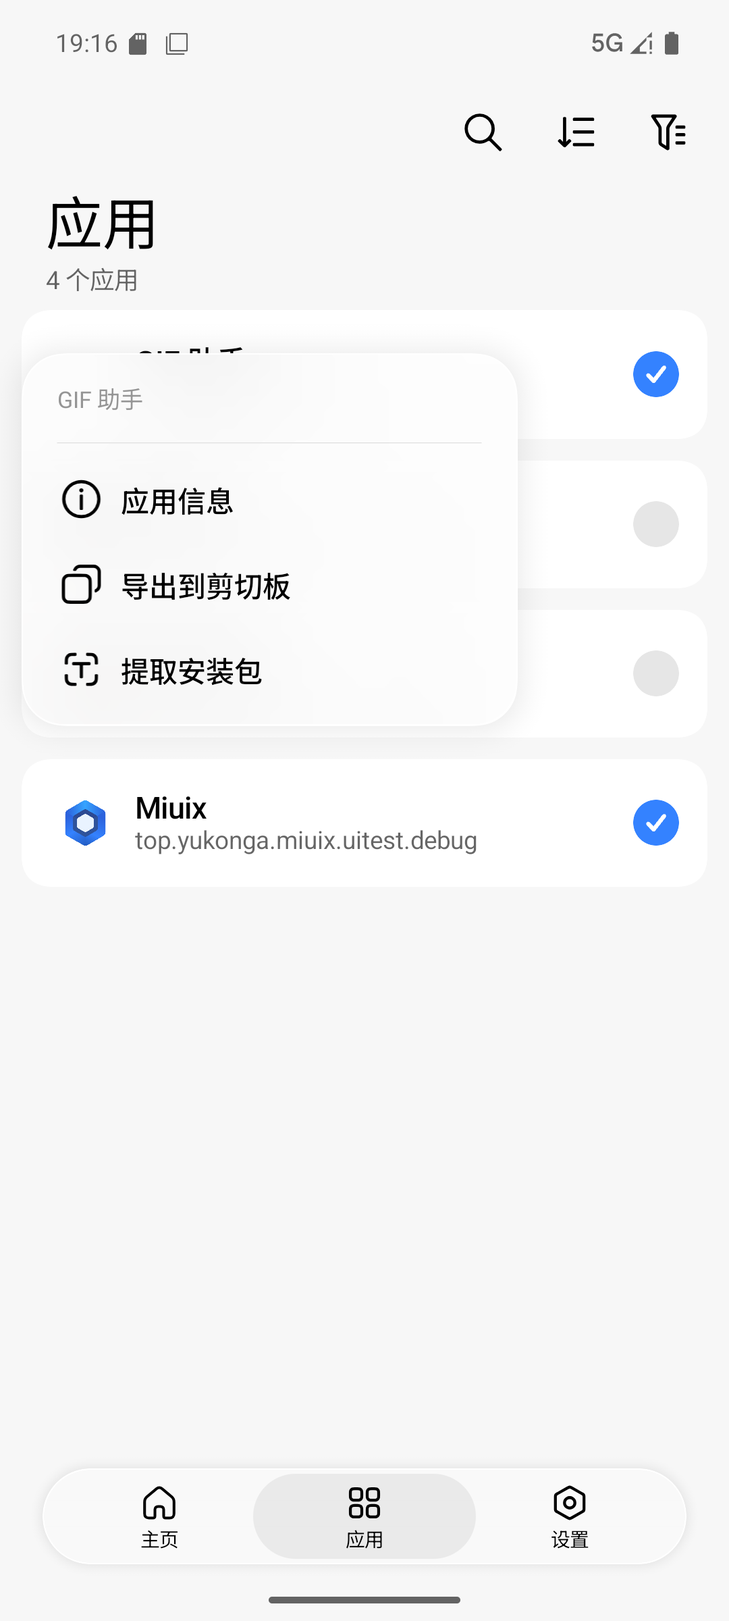
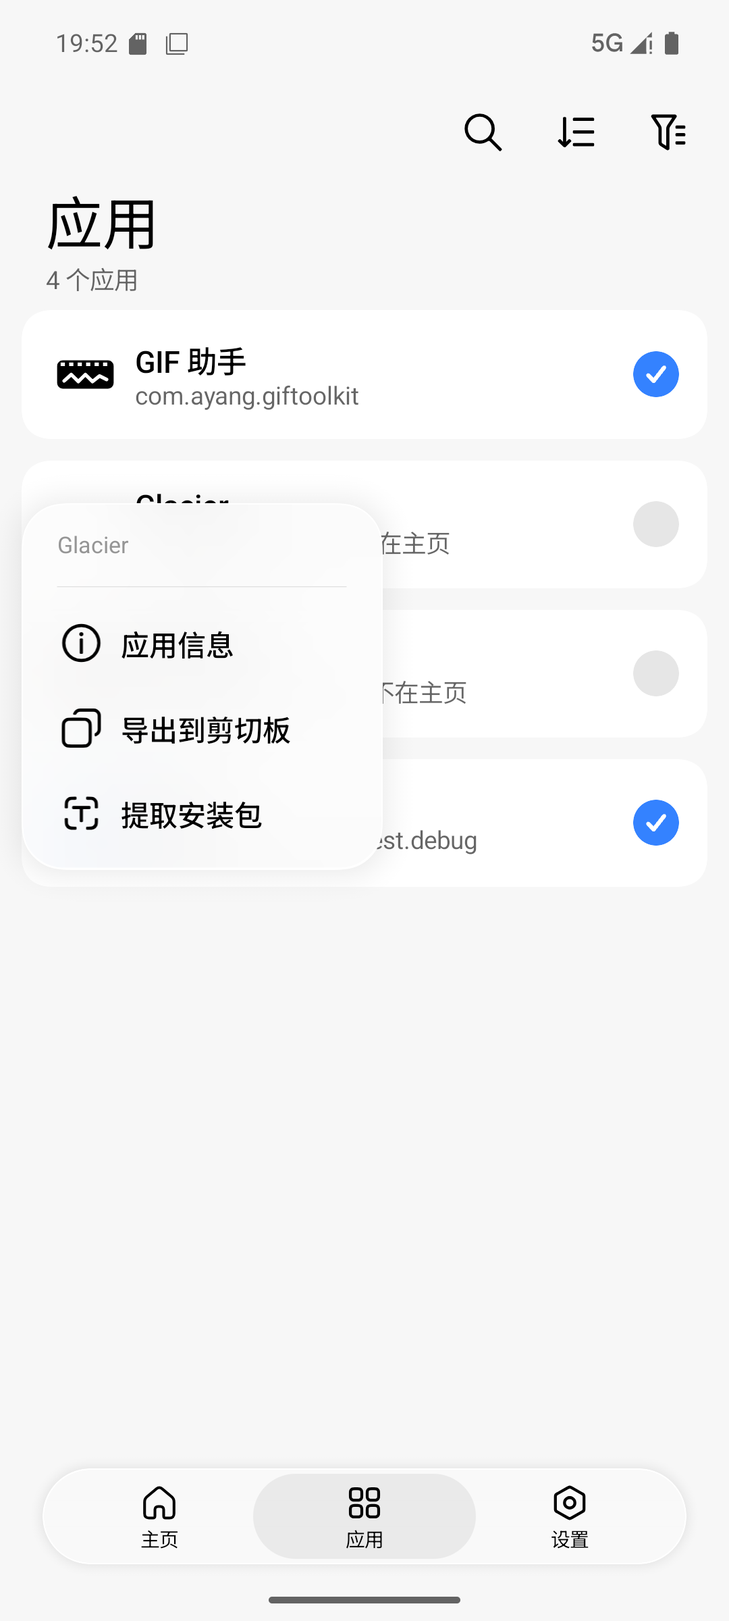
fix(ui): 锚点浮层交回官方宽度/动画并让开侧栏
面板宽度不再写死 320/280dp，交回 GlassPopupDefaults.MinWidth/MaxWidth 内容驱动；浮层改为常驻组合并用列表首项预热，修复首次长按无展开动画；TopLayerHost 按侧栏让位宽度内缩，横屏浮层不再盖住侧栏。

设置：工作模式「禁用」改「停用」，主页标签字号与合成自适应图标对调。

diff --git a/app/src/main/kotlin/com/ayang/glacier/feature/home/HomeScreen.kt b/app/src/main/kotlin/com/ayang/glacier/feature/home/HomeScreen.kt
@@ -27,7 +27,6 @@ import androidx.compose.foundation.layout.height
 import androidx.compose.foundation.layout.only
 import androidx.compose.foundation.layout.padding
 import androidx.compose.foundation.layout.size
-import androidx.compose.foundation.layout.width
 import androidx.compose.foundation.lazy.LazyColumn
 import androidx.compose.foundation.lazy.rememberLazyListState
 import androidx.compose.foundation.lazy.grid.GridCells
@@ -286,6 +285,11 @@ fun HomeScreen() {
 
     // 浮层退场期间继续使用最后一次内容（规范 0 节红线 1）。
     var lastActionEntry by remember { mutableStateOf<AppEntry?>(null) }
+    // 预热：浮层常驻组合（官方要求），首帧就要有完整菜单内容。否则第一次长按时会先按
+    // "空菜单"量一次面板，`GlassPopupSurface` 的固有尺寸缓存会把这次量到的极小尺寸记住，
+    // 内容随后补上也不再重量（表现为只留一条细条）。用列表第一项预热即可：浮层此时不可见，
+    // 真正被长按的条目会在同一次组合里替换进来。
+    if (lastActionEntry == null) lastActionEntry = entries.firstOrNull()
     var lastTagNameRequest by remember { mutableStateOf<TagNameRequest?>(null) }
     var lastDeleteTag by remember { mutableStateOf<Tag?>(null) }
     var lastDeferredPackage by remember { mutableStateOf<String?>(null) }
@@ -514,40 +518,42 @@ fun HomeScreen() {
                 menuTarget?.label.orEmpty()
             }
             // 锚点浮层提升到根部 TopLayer：不进页面录制层（避免自采样），也不被玻璃侧栏盖住。
-            // 首次长按前不组合浮层：`GlassPopupSurface` 的固有尺寸缓存以 content lambda 为 token，
-            // 先在"空菜单"状态下组合一次会把面板高度缓存成只有标题行，之后菜单内容补上也不再
-            // 重新量（表现为只显示标题、行被裁掉）。等有目标时第一次就带完整菜单组合即可。
-            if (menuTarget != null) {
-                TopLayer {
-                    GlassTransformPopup(
-                        show = actionTarget != null,
-                        onDismissRequest = { actionTarget = null },
-                        anchor = menuAnchor,
-                        // 采样页面录制层：浮层自己不在这一层里（TopLayer 在外），不会采到自己。
-                        backdrop = pageBackdrop,
-                        anchorContent = {
+            // 浮层必须**常驻组合**，只用 `show` 控制开合（官方文档："关闭时仍须保留组件调用，
+            // 直到离场动画完成；不要使用 `if (show)` 包裹调用"）。首次长按才组合的话，
+            // `updateTransition` 的初始值已经是 `true`，展开动画不会播——这正是"第一次长按
+            // 直接弹出、没有动画"的原因。浮层未激活时 `GlassPopupSurface` 不组合，
+            // 真正激活那一帧的内容由下面的 `lastActionEntry` 预热保证是完整菜单。
+            TopLayer {
+                GlassTransformPopup(
+                    show = actionTarget != null,
+                    onDismissRequest = { actionTarget = null },
+                    anchor = menuAnchor,
+                    // 采样页面录制层：浮层自己不在这一层里（TopLayer 在外），不会采到自己。
+                    backdrop = pageBackdrop,
+                    anchorContent = {
+                        menuTarget?.let { target ->
                             AppIconView(
-                                packageName = menuTarget.packageName,
+                                packageName = target.packageName,
                                 size = PageMetrics.GridAppIcon,
-                                frozen = menuTarget.frozen,
+                                frozen = target.frozen,
                             )
-                        },
-                        // 与官方 example 一致：普通展开不复制锚点外围内容，只做原地生长。
-                        simplified = true,
-                        gap = 8.dp,
-                    ) {
+                        }
+                    },
+                    // 与官方 example 一致：普通展开不复制锚点外围内容，只做原地生长。
+                    simplified = true,
+                    gap = 8.dp,
+                ) {
+                    menuTarget?.let { target ->
                         Text(
                             text = popupTitle,
                             style = MiuixTheme.textStyles.footnote1,
                             color = MiuixTheme.colorScheme.onSurfaceContainerVariant,
-                            // 菜单行是中文长文案（「添加到主屏幕」等），默认 200dp 会省略；
-                            // 标题行给明确宽度把面板撑宽（仍受窗口安全边距与 MaxWidth 夹紧）。
-                            modifier = Modifier
-                                .width(320.dp)
-                                .padding(
-                                    horizontal = GlassPopupDefaults.ItemPaddingHorizontal,
-                                    vertical = 8.dp,
-                                ),
+                            // 面板宽度交回官方内容驱动（GlassPopupDefaults.MinWidth/MaxWidth）；
+                            // 这里只给菜单行的同一套内边距，不再写死宽度把面板顶到 MaxWidth。
+                            modifier = Modifier.padding(
+                                horizontal = GlassPopupDefaults.ItemPaddingHorizontal,
+                                vertical = 8.dp,
+                            ),
                         )
                         HorizontalDivider(
                             modifier = Modifier.padding(
@@ -557,7 +563,7 @@ fun HomeScreen() {
                             thickness = GlassPopupDefaults.DividerThickness,
                         )
                         menuActions.forEach { action ->
-                            val row = actionSpecOf(action, menuTarget, handleMenuAction)
+                            val row = actionSpecOf(action, target, handleMenuAction)
                             GlassPopupItem(
                                 text = row.label,
                                 icon = row.icon,

diff --git a/app/src/main/kotlin/com/ayang/glacier/feature/apps/AppsScreen.kt b/app/src/main/kotlin/com/ayang/glacier/feature/apps/AppsScreen.kt
@@ -9,7 +9,6 @@ import androidx.compose.foundation.layout.fillMaxSize
 import androidx.compose.foundation.layout.fillMaxWidth
 import androidx.compose.foundation.layout.only
 import androidx.compose.foundation.layout.padding
-import androidx.compose.foundation.layout.width
 import androidx.compose.foundation.lazy.LazyColumn
 import androidx.compose.foundation.lazy.items
 import androidx.compose.foundation.lazy.rememberLazyListState
@@ -129,6 +128,10 @@ fun AppsScreen() {
     val listState = rememberLazyListState()
 
     val entries = remember(repository.snapshot, revision) { repository.apps() }
+    // 预热：浮层常驻组合，首帧即带完整菜单内容（否则首次打开会先量出"空菜单"并被
+    // `GlassPopupSurface` 的固有尺寸缓存记住，之后内容补上也不重量）。浮层此时不可见，
+    // 真正被长按的条目会在同一次组合里替换进来。
+    if (lastActionEntry == null) lastActionEntry = entries.firstOrNull()
     // 「不在主页」徽标需要的集合：与搜索结果行共用同一份摘要文案（`appRowSummary`）。
     val homePackages = remember(repository.snapshot) {
         repository.snapshot.home.mapTo(HashSet()) { it.packageName }
@@ -232,37 +235,37 @@ fun AppsScreen() {
             SideEffect {
                 if (actionEntry != null) lastActionEntry = actionEntry
             }
-            // 首次长按前不组合浮层：`GlassPopupSurface` 的固有尺寸缓存以 content lambda 为 token，
-            // 先在"仅标题"状态下组合一次会把面板高度缓存住，菜单行补上也不再重新量。
-            val menuEntry = lastActionEntry
-            if (menuEntry != null) {
-                TopLayer {
-                    GlassTransformPopup(
-                        show = actionTarget != null,
-                        onDismissRequest = { actionTarget = null },
-                        anchor = popupAnchor ?: placeholderAnchor,
-                        backdrop = pageBackdrop,
-                        anchorContent = {
+            // 浮层**常驻组合**（官方文档：退场期间仍须保留调用，不要用 `if (show)` 包裹）：
+            // 首次长按才组合的话，`updateTransition` 初始值已是 `true`，展开动画不播。
+            // 浮层未激活时 `GlassPopupSurface` 不组合，真正激活那一帧的内容由上面的预热保证。
+            TopLayer {
+                GlassTransformPopup(
+                    show = actionTarget != null,
+                    onDismissRequest = { actionTarget = null },
+                    anchor = popupAnchor ?: placeholderAnchor,
+                    backdrop = pageBackdrop,
+                    anchorContent = {
+                        lastActionEntry?.let { entry ->
                             AppIconView(
-                                packageName = menuEntry.packageName,
+                                packageName = entry.packageName,
                                 size = PageMetrics.ListAppIcon,
-                                frozen = menuEntry.frozen,
+                                frozen = entry.frozen,
                             )
-                        },
-                        simplified = true,
-                        gap = 8.dp,
-                    ) {
+                        }
+                    },
+                    simplified = true,
+                    gap = 8.dp,
+                ) {
+                    lastActionEntry?.let { entry ->
                         Text(
-                            text = menuEntry.label,
+                            text = entry.label,
                             style = MiuixTheme.textStyles.footnote1,
                             color = MiuixTheme.colorScheme.onSurfaceContainerVariant,
-                            // 中文长行（「导出到剪切板」）在默认 200dp 下会被省略；标题行明确撑到 280dp。
-                            modifier = Modifier
-                                .width(280.dp)
-                                .padding(
-                                    horizontal = GlassPopupDefaults.ItemPaddingHorizontal,
-                                    vertical = 8.dp,
-                                ),
+                            // 宽度交回官方内容驱动（MinWidth/MaxWidth），只保留菜单行内边距。
+                            modifier = Modifier.padding(
+                                horizontal = GlassPopupDefaults.ItemPaddingHorizontal,
+                                vertical = 8.dp,
+                            ),
                         )
                         HorizontalDivider(
                             modifier = Modifier.padding(
@@ -272,9 +275,9 @@ fun AppsScreen() {
                             thickness = GlassPopupDefaults.DividerThickness,
                         )
                         appsMenuActions().forEach { action ->
-                            val row = actionSpecOf(action, menuEntry) { picked ->
+                            val row = actionSpecOf(action, entry) { picked ->
                                 actionTarget = null
-                                scope.launch { runner.run(menuEntry, picked) }
+                                scope.launch { runner.run(entry, picked) }
                             }
                             GlassPopupItem(
                                 text = row.label,

diff --git a/app/src/main/kotlin/com/ayang/glacier/feature/settings/SettingsScreen.kt b/app/src/main/kotlin/com/ayang/glacier/feature/settings/SettingsScreen.kt
@@ -250,16 +250,6 @@ fun SettingsScreen(onOpenAbout: () -> Unit) {
                         title = stringResource(R.string.compact_icon),
                         summary = stringResource(R.string.compact_icon_summary),
                     )
-                    SwitchPreference(
-                        checked = synthesize,
-                        onCheckedChange = {
-                            synthesize = it
-                            preferences.synthesizeAdaptiveIcons = it
-                            preferences.bumpRevision()
-                        },
-                        title = stringResource(R.string.synthesize_adaptive_icons),
-                        summary = stringResource(R.string.synthesize_adaptive_icons_summary),
-                    )
                     SliderPreference(
                         value = labelSize,
                         onValueChange = { labelSize = it },
@@ -271,6 +261,16 @@ fun SettingsScreen(onOpenAbout: () -> Unit) {
                         valueText = stringResource(R.string.settings_font_size_value, labelSize.toInt()),
                         valueRange = 11f..18f,
                         steps = 6,
+                    )
+                    SwitchPreference(
+                        checked = synthesize,
+                        onCheckedChange = {
+                            synthesize = it
+                            preferences.synthesizeAdaptiveIcons = it
+                            preferences.bumpRevision()
+                        },
+                        title = stringResource(R.string.synthesize_adaptive_icons),
+                        summary = stringResource(R.string.synthesize_adaptive_icons_summary),
                     )
                 }
             }

diff --git a/app/src/main/kotlin/com/ayang/glacier/ui/GlacierShell.kt b/app/src/main/kotlin/com/ayang/glacier/ui/GlacierShell.kt
@@ -400,7 +400,20 @@ fun GlacierShell() {
                 }
                 // 浮层最后画：在 NavDisplay 的录制层和玻璃侧栏之外，盖住所有 chrome，
                 // 同时能安全采样页面录制层（官方 AppContent 的 TopLayerHost 同一位置）。
-                TopLayerHost(topLayer)
+                // 横屏展开侧栏时按侧栏让位宽度内缩宿主：`GlassPopupSurface` 会把面板夹在
+                // 宿主边界与安全边距内（官方契约："放在带 inset 内边距或侧栏偏移的面板中也能对齐"），
+                // 于是长按菜单自动停在侧栏右侧，不再盖住侧栏。宿主仍在侧栏之后绘制，z 序不变。
+                // 让位值在布局期读取，侧栏 morph 不会每帧触发整壳重组。
+                TopLayerHost(
+                    state = topLayer,
+                    modifier = Modifier.layout { measurable, constraints ->
+                        val inset = overlayStart().roundToPx().coerceIn(0, constraints.maxWidth)
+                        val placeable = measurable.measure(constraints.offset(horizontal = -inset))
+                        layout(placeable.width + inset, placeable.height) {
+                            placeable.place(inset, 0)
+                        }
+                    },
+                )
             }
         }
     }

diff --git a/MIUIX_BASELINE.md b/MIUIX_BASELINE.md
@@ -87,8 +87,8 @@ miuix-squircle      squircleClip / squircleBorder / squircleBackground
 | 文本输入 | `GlassTextField`（玻璃档）/ `TextField`（非玻璃档），均为 `TextFieldState` 新版 API | 旧的 `value/onValueChange` 重载已废弃 |
 | 弹层 | `GlassDialog` / `GlassBottomSheet` / `GlassDropdownPreference` / `GlassDialogButton` | `renderInRootScaffold` 保持默认 true；`GlassBottomSheet` 的内容槽是 `(PaddingValues) -> Unit`（标题栏覆盖在内容上，内容必须让出实测标题高度，R13 已全部接好） |
 | 弹层内的分组卡片 | `GlassCard` | 0.9.5 main 新增；专用于玻璃表面上的内容卡，替代原先在 `GlassBottomSheet` / `GlassDialog` 里复用的普通 `Card`；R13 起关于页信息卡也从自绘 textureBlur 换成它 |
-| 长按菜单 | `GlassTransformPopup` + `GlassPopupItem` + `GlassPopupAnchor`（`rememberGlassPopupAnchor` / `glassPopupAnchor` / `glassPopupAnchorContent`） | **R13 接回**：主页网格与应用页列表行的长按菜单都从被按的那一格/图标原地展开（官方锚点浮层），不再用底部弹层；经 `TopLayer` 提升到根部，避免被侧栏盖住 + 避免自采样 |
-| 页面级浮层宿主 | `TopLayer` / `TopLayerHost`（`ui/TopLayer.kt`，官方 `example/utils/TopLayer.kt` 逐字节移植） | 官方 example 私有能力，库不导出；浮层画在录制层与玻璃侧栏之外 |
+| 长按菜单 | `GlassTransformPopup` + `GlassPopupItem` + `GlassPopupAnchor`（`rememberGlassPopupAnchor` / `glassPopupAnchor` / `glassPopupAnchorContent`） | **R13 接回，R14 补齐官方契约**：主页网格与应用页列表行的长按菜单都从被按的那一格/图标原地展开（官方锚点浮层），不再用底部弹层；经 `TopLayer` 提升到根部，避免被侧栏盖住 + 避免自采样。R14：面板宽度交回官方内容驱动（`GlassPopupDefaults.MinWidth 200dp` / `MaxWidth 288dp`，不再写死 `width(320/280)`）；浮层改为常驻组合（官方"退场期间仍须保留调用"），首次长按也有展开动画 |
+| 页面级浮层宿主 | `TopLayer` / `TopLayerHost`（`ui/TopLayer.kt`，官方 `example/utils/TopLayer.kt` 逐字节移植） | 官方 example 私有能力，库不导出；浮层画在录制层与玻璃侧栏之外。R14：宿主按侧栏让位宽度内缩，`GlassPopupSurface` 的"夹在宿主边界内"规则因此自动让开侧栏（官方契约："放在带 inset 内边距或侧栏偏移的面板中也能对齐"） |
 | 按钮 | `GlassIconButton` / `GlassFloatingActionButton` | 顶栏动作、返回、FAB |
 | 宿主让位 | `AppPageInsets` + `LocalAppPageInsets` + `appPageHorizontalInsets()` / `appPageTopBarInsets()`（`ui/PageInsets.kt`，官方 `utils/PageUtils.kt:62-152` 的逐字节移植） | 侧栏宽度、系统安全区只作用于内容；`NavDisplay` 恒满宽，背景与模糊带不被裁断 |
 | 内容内边距 | `pageContentPadding`（官方惰性 `PaddingValues`）+ `rememberAppSafePadding()` | 组合期只建对象，`calculate*` 在布局阶段读，侧栏 morph 不触发重组 |
@@ -131,9 +131,9 @@ miuix-squircle      squircleClip / squircleBorder / squircleBackground
 | `UiFeedback.toast()` | 仍用 Android `Toast`（R11 评估后**确认保留**） | ① 调用点包含 Worker / Receiver / 快捷方式等无 Composition 的上下文，`Snackbar` 需要宿主；② 页面级浮层（`GlassSearchOverlay` / `GlassBottomSheet` / 锚点菜单）画在 Scaffold 之上，会在"搜索结果里点一行加入/移出主页"这类高频路径上把 Snackbar 盖住，反馈直接丢失；③ `Toast` 是系统反馈件而非自造 UI，HyperOS 上由系统按 OS 风格绘制 |
 | 二级页切 Tab 的转场 | 仍走 `NavTransitions.MiuixDefault`（官方 example 在二级页点导航时切到私有的 `InstantNavTransition`，`AppContent.kt:320/1155`） | 该 helper 是 example 私有实现而非库 API；当前表现为"退回一级页时播放 pop 转场"，与官方观感有差异，但语义正确。需要完全一致时再移植 |
 | 主页大标题 | 恒为应用名，多选进度写在副标题 | 之前用"换大标题 + 0.83 字号补偿 + 整条顶栏 `AnimatedContent`"表达「已选 N 个」，属自造排版层（`title1` 被临时缩成 26.5sp）；R11 删除，回到官方 `title` + `subtitle` 两行 |
-| 锚点浮层（`GlassPopup` / `GlassTransformPopup`） | **R13 已接回并实测通过**：主页网格与应用页列表行的长按菜单都从被按的那一格/图标原地展开；经 `TopLayer` 提升到根部 | R12 的 RenderThread 递归崩溃只在软件渲染（SwiftShader）下出现；本轮模拟器接入宿主 GPU（AMD Radeon，GLES 3.1 硬件 RenderEffect）后正常。上游 beta04→main 的关闭回弹修复也一并生效。详见 `docs/audit/miuix-os4-r13-audit.md` |
+| 锚点浮层（`GlassPopup` / `GlassTransformPopup`） | **R13 已接回并实测通过，R14 补齐宽度/动画/侧栏让位**：主页网格与应用页列表行的长按菜单都从被按的那一格/图标原地展开；经 `TopLayer` 提升到根部 | R12 的 RenderThread 递归崩溃只在软件渲染（SwiftShader）下出现；本轮模拟器接入宿主 GPU（AMD Radeon，GLES 3.1 硬件 RenderEffect）后正常。上游 beta04→main 的关闭回弹修复也一并生效。详见 `docs/audit/miuix-os4-r13-audit.md`、`docs/audit/miuix-os4-r14-audit.md` |
 | 弹出菜单行数上限 | 标题 + 分割线 + 6 行后，其余行在弹层内滚动 | 上游 `GlassPopupColumn` 的固有尺寸探测只采样前 8 个子项（`POPUP_PROBE_COUNT = 8`），超过 6 行时面板高度按 6 行算。主页 10 行菜单实测可滚动到「从主页移除」，文案完整；不通过改库绕过 |
-| 弹层首次组合时机 | 首次长按前不组合锚点浮层（`if (lastActionEntry != null)`） | 上游 `GlassPopupSurface` 的固有尺寸缓存以 content lambda 为 token；先在"空菜单"状态组合会缓存只有标题行的面板高度，之后补内容也不再重算。等有目标时第一次就带完整菜单组合可绕过 |
+| 弹层首次组合时机 | 浮层常驻组合，开合只由 `show` 控制；用列表第一项预热菜单内容 | 官方文档明确要求"关闭时仍须保留组件调用，直到离场动画完成；不要使用 `if (show)` 包裹调用"，否则首次长按 `updateTransition` 初始值就是 `true`，展开动画不播（R14 修复）。同时上游 `GlassPopupSurface` 的固有尺寸缓存会记住"空菜单"首帧量到的极小尺寸，所以先用列表首项预热完整菜单，等真正长按时同帧替换成被按条目 |
 | 底部导航蓝色模糊块 | 复核为非缺陷 | 设置页底栏左侧的蓝色块是「主页标签字号」滑块的蓝色轨道透过玻璃的正常采样，滚动离开即消失，切页签后不残留；1.5.0 报告里的"残影"本轮未再复现 |
 | 关于页背景效果调试面板 | 未移植（官方 AboutPage `:456-495` 的 `Background Effect` BottomSheet） | 官方 example 用来现场调 BgEffect 参数（OS2/OS3、动态背景、全屏）的调试面板，无产品意义；动态背景本体已完整对齐 |
 | Monet 动态取色 | 未接入。官方 `ColorSchemeMode.MonetSystem` 可用，Glacier 固定浅/深色板 | 品牌一致性；如需要可作为「主题」第三档，属于产品决策 |
@@ -225,3 +225,4 @@ adb install -r app/build/outputs/apk/debug/Glacier-debug.apk
 | 2026-11-25（同基线） | — | — | 长按菜单交互（R12）：多选态长按**已选中**项 → 批量菜单（标题「已选择：N」+ 冻结/解冻/标签分组/导出/移除/解冻并移除），长按未选中项仍是单应用菜单；删除 `HoldDownEffect`（按下层不再人工保持），菜单打开的那一格改用零透明度官方 `MiuixIndication` 让叠层立即退场；新增 `SelectionActionRunner`、`setTagForApps`（批量打标签）、`TagPickerSheet`（官方三态 `Checkbox`）。详见 `docs/audit/miuix-os4-r12-audit.md` |
 | 2026-11-25（同基线） | — | — | 自造轮子清查 R11 + 冻结交互重构：删掉"已选 N 个"的自造排版层（`titleFontScale` 0.83 字号补偿 + 整条顶栏 `AnimatedContent` + 逐状态 `MiuixTheme` 覆盖），多选进度改回官方副标题；主页 FAB 改为**只冻结**（不再在"全冻"时翻成解冻；FAB 与多选入口**常驻原位**，确实无可冻目标时点击提示「已全部冻结」，不做自造禁用态）；`refresh()` 由"正在刷新就丢弃"改成 Mutex 串行（修"冻结后图标/文案不刷新"）；应用图标灰度档进 LRU 并支持同步 `peek`，冻结切换不再闪空占位 |
 | 2026-11-25 | `3c560868`（**tag `v0.9.5-beta04`**） | `542463a0`（**main 最新**，beta04 + 12） | 用户要求升级到最新。官方变更集中在 Glass：`GlassTransformPopup` 关闭回弹（`preserve closing rebound on anchor button`）、`GlassBottomSheet` 渐进模糊标题栏 + `headerBottomContent` + 内容槽改 `PaddingValues`、`GlassTopAppBar` 渐进模糊顶纱与 `BandOverhang` 36→32dp、`GlassIconButton` 头部上下文统一为 `GlassHeaderContext`、`GlassCard`/`GlassDialogButton` 动态色对比度、`GlassTopAppBar` `heightOffset` 夹紧、预测性返回状态复位、底栏上沿延伸。Glacier 侧：接回锚点长按菜单（`GlassTransformPopup` + `TopLayer`）、全部 `GlassBottomSheet` 内容让出标题栏、关于页信息卡换 `GlassCard`、页面列表补 `overscrollEffect = null`、`PageMetrics.Horizontal` 改用官方 `GlassTopAppBarDefaults.HorizontalPadding`。详见 `docs/audit/miuix-os4-r13-audit.md` |
+| 2026-11-25（同基线） | — | — | 锚点浮层按官方契约收尾（R14）：① 面板宽度从写死的 `width(320/280.dp)` 交回官方内容驱动（`MinWidth 200dp` / `MaxWidth 288dp`），不再被强行顶到 MaxWidth；② 浮层改为**常驻组合**（官方"退场期间仍须保留调用"），首次长按也有展开动画；用列表首项预热菜单内容，避开上游固有尺寸缓存对"空菜单首帧"的记忆；③ 横屏展开侧栏时 `TopLayerHost` 按侧栏让位宽度内缩，`GlassPopupSurface` 的宿主边界夹紧规则自动让开侧栏；④ 设置项文案「禁用」改「停用」，并调换「主页标签字号」/「合成自适应图标」顺序。详见 `docs/audit/miuix-os4-r14-audit.md` |

diff --git a/docs/audit/miuix-os4-r14-audit.md b/docs/audit/miuix-os4-r14-audit.md
@@ -1,0 +1,81 @@
+# R14 · 锚点浮层收尾（宽度 / 首开动画 / 横屏侧栏让位）+ 设置文案与顺序
+
+> 状态：**已实施并在 GPU 模拟器验证**
+> 起因（用户 4 条）：① 工作模式「禁用」文案改「停用」，「主页标签字号」与「合成自适应图标」对调；
+> ② 长按悬浮弹窗是否过宽、是否符合 MIUIX OS4 设计；③ 有时第一次长按没有弹出动画；
+> ④ 横屏长按后弹窗遮挡侧栏，问官方有没有自动让位能力。
+
+---
+
+## 1. 结论
+
+| # | 问题 | 结论 |
+|---|---|---|
+| ① | 文案 / 顺序 | 4 条工作模式文案的「禁用」改「停用」；设置页两个选项对调 |
+| ② | 弹窗过宽 | **是过宽**。官方 `GlassPopupDefaults.MinWidth = 200.dp`、`MaxWidth = 288.dp`，**宽度由菜单内容固有尺寸驱动**；R13 为绕开高度探测把标题行写成 `width(320.dp)`（应用页 280dp），实际把面板强行顶到 MaxWidth。R14 删除写死宽度后实测面板收回到 200dp（MinWidth），文案完整、无省略 |
+| ③ | 首次长按无动画 | **R13 的绕过写法造成的**。官方文档要求浮层常驻组合、用 `show` 控制开合；R13 用 `if (lastActionEntry != null)` 包裹调用，第一次长按时才第一次组合，`updateTransition(show)` 的初始值直接是 `true`，展开动画不会播。R14 改为常驻组合，并用列表首项预热菜单内容（避开上游固有尺寸缓存对"空菜单首帧"的记忆），冷启动后第一次长按即有完整动画 |
+| ④ | 横屏遮挡侧栏 | 官方**没有"识别侧栏"的专用 API**，自动让位来自 `GlassPopupSurface` 的放置规则：面板被夹在「弹窗宿主边界 + `safeMargin`」内，空间不足时上下翻转（`placeGlassPopup`）。官方文档的原话是"放在带 inset 内边距或侧栏偏移的面板中也能对齐"。所以把根部 `TopLayerHost` 按侧栏让位宽度（`overlayStart`）内缩，浮层就自动停在侧栏右侧，且仍在侧栏之后绘制（z 序不变） |
+
+## 2. 官方依据
+
+| 依据 | 内容 |
+|---|---|
+| `miuix/docs/zh_CN/components/glass/glasstransformpopup.md:30` | 浮层放在整页 Box 最后、裁剪容器之外；"弹窗会减去自身宿主的窗口偏移，因此放在带 inset 内边距或侧栏偏移的面板中也能对齐" |
+| 同上 `:34` | "关闭时仍须保留组件调用，直到离场动画完成；不要使用 `if (show)` 包裹调用" |
+| `miuix/docs/zh_CN/components/glass/glasspopup.md:108-115` | `GlassPopupSizing`：`minWidth` 默认 200dp、`maxWidth` 默认 288dp、`safeMargin` 默认 12dp |
+| `miuix-glass/.../GlassPopup.kt:61-73` | `GlassPopupDefaults`：`MinWidth 200.dp` / `MaxWidth 288.dp` / `MaxHeight 416.dp` / `SafeMargin 12.dp` |
+| `miuix-glass/.../GlassPopupSurface.kt:141-160` | `placeGlassPopup`：水平按 `horizontalAlignment` 对齐后夹进宿主窗口安全区；垂直空间不足时翻到锚点上方 |
+| `miuix-glass/.../GlassPopupSurface.kt:329-346` | 面板宽度 = `measurables[1].maxIntrinsicWidth()` 夹在 `[minWidth, maxWidth]`；高度 = `minIntrinsicHeight` 夹到 `maxHeight` 后滚动 |
+| `miuix-glass/.../GlassPopupColumn.kt:31` | `POPUP_PROBE_COUNT = 8`：固有尺寸只采样前 8 个子项（标题 + 分割线 + 6 行） |
+
+## 3. 改动
+
+| 文件 | 改动 | 原因 |
+|---|---|---|
+| `res/values-zh-rCN/strings.xml` | `mode_shizuku_disable` / `mode_su_disable` / `mode_jailbreak_disable` / `mode_privapp_disable` 的「禁用」→「停用」 | 用户 ① |
+| `feature/settings/SettingsScreen.kt` | 「主页标签字号」滑块移到「合成自适应图标」开关之前 | 用户 ① |
+| `feature/home/HomeScreen.kt` | 删除标题行 `width(320.dp)`；`TopLayer { GlassTransformPopup(...) }` 不再用 `if (menuTarget != null)` 包裹；标题/行内容用 `menuTarget?.let` 保护；`lastActionEntry` 用 `entries.firstOrNull()` 预热 | 用户 ②③ |
+| `feature/apps/AppsScreen.kt` | 同上（删除 `width(280.dp)`、常驻组合、`entries.firstOrNull()` 预热） | 用户 ②③ |
+| `ui/GlacierShell.kt` | `TopLayerHost` 增加 `Modifier.layout`：按 `overlayStart()`（侧栏让位宽度）内缩宿主，布局期读取，侧栏 morph 不触发整壳重组 | 用户 ④ |
+
+`ui/TopLayer.kt` 仍是官方 `example/utils/TopLayer.kt` 的逐字节移植，没有为了侧栏让位改它的结构——只是在调用点给宿主加内缩，符合官方"宿主边界即摆放边界"的契约。
+
+## 4. 验证（模拟器 `emulator-5554`，1080×2400 @420dpi，Android 16 / API 36，宿主 GPU）
+
+| 验证项 | 结果 | 证据 |
+|---|---|---|
+| 设置文案 | 工作模式值显示「Root · 停用」，下拉里「Shizuku · 停用」「Root · 停用」 | `docs/verification/miuix-os4-r14/05-work-mode-label.png` |
+| 设置顺序 | 外观组：… → 主页标签字号（滑块）→ 合成自适应图标（开关） | `04-settings-appearance-order.png` |
+| 主页锚点菜单宽度 | 面板 200dp（官方 MinWidth），六行文案完整、无省略；不再顶到 288dp | `01-home-anchor-menu.png` |
+| 应用页锚点菜单宽度 | 面板 200dp，三行文案完整 | `02-apps-anchor-menu.png` |
+| 首次长按动画 | 冷启动后第一次长按，连续截图能看到锚点隐藏 → 面板由小变大/模糊收敛 → 稳定 | `03-first-longpress-animation.png`（中间帧） |
+| 横屏展开侧栏 | 浮层整体停在侧栏右侧（12dp 安全边距），侧栏标签「主页/应用/设置」完整可见 | `06-landscape-rail-avoidance.png` |
+| 构建 | `:app:assembleDebug` 通过 | — |
+| 单测 | `:app:testDebugUnitTest` BUILD SUCCESSFUL | — |
+
+动画验证方法：`adb shell` 里后台起 `input swipe`（同一坐标长按 900ms），同时设备端连续 `screencap`，取中间帧与稳定帧对比。冷启动后第一次长按可稳定复现"锚点消失 → 面板展开"的中间态。
+
+## 5. 上游限制 / 未做
+
+- `POPUP_PROBE_COUNT = 8` 未变：标题 + 分割线 + 6 行以内一屏显示，更多行在弹层内滚动。主页 9 行菜单首屏 6 行、可滚到最后一行；这是上游探测上限，不通过改库绕过。
+- 预热的是"列表首项"的完整菜单：浮层在不可见时已在组合树里，但 `GlassTransformPopup` 在 `active == false` 时提前返回、不组合 `GlassPopupSurface`，因此没有额外测量/采样成本。
+- 横屏**折叠胶囊**态没有额外让位：此时侧栏不占横向空间，长按锚点一般也在胶囊下方；如果以后出现遮挡，用同一套"宿主内缩"再加 top inset 即可。
+- 真机玻璃光学（材质/描边/阴影观感）仍未验证；模拟器已接宿主 GPU，但不等于真机。
+- 未改 MIUIX 库源码（composite build 里的本地补丁仅为 `BuildConfig.kt` 的 git 执行目录修复）。
+
+## 6. 变更面
+
+```
+app/src/main/kotlin/com/ayang/glacier/feature/home/HomeScreen.kt
+app/src/main/kotlin/com/ayang/glacier/feature/apps/AppsScreen.kt
+app/src/main/kotlin/com/ayang/glacier/feature/settings/SettingsScreen.kt
+app/src/main/kotlin/com/ayang/glacier/ui/GlacierShell.kt
+app/src/main/res/values-zh-rCN/strings.xml
+docs/audit/miuix-os4-r14-audit.md
+docs/verification/miuix-os4-r14/**
+docs/screenshots/home-menu.png（更新）
+docs/screenshots/apps-menu.png（更新）
+docs/audit/miuix-os4-r13-audit.md（补 R14 说明）
+MIUIX_BASELINE.md（§5 / §7 / §10）
+README.md（审计索引）
+```

diff --git a/docs/verification/miuix-os4-r14/README.md b/docs/verification/miuix-os4-r14/README.md
@@ -1,0 +1,18 @@
+# R14 验收截图
+
+环境：`emulator-5554`，1080×2400 @420dpi，Android 16（API 36），模拟器接入宿主 GPU
+（AMD Radeon，GLES 3.1 硬件 RenderEffect），玻璃效果开启。对应审计：`docs/audit/miuix-os4-r14-audit.md`。
+
+| 文件 | 内容 |
+|---|---|
+| `01-home-anchor-menu.png` | 主页长按锚点菜单：面板 200dp（官方 `MinWidth`），宽度由菜单内容驱动，不再被写死宽度顶到 288dp；六行文案完整 |
+| `02-apps-anchor-menu.png` | 应用页长按锚点菜单：同样 200dp，三行文案完整 |
+| `03-first-longpress-animation.png` | 冷启动后**第一次**长按的展开动画中间帧：锚点内容已隐藏、面板正在从小变大（与稳定帧对比可见半径/位置差异） |
+| `04-settings-appearance-order.png` | 外观组顺序：主页标签字号（滑块）在前、合成自适应图标（开关）在后 |
+| `05-work-mode-label.png` | 工作模式下拉文案：「Shizuku · 停用」「Root · 停用」 |
+| `06-landscape-rail-avoidance.png` | 横屏 + 展开侧栏：浮层停在侧栏右侧，侧栏标签完整可见（`TopLayerHost` 按侧栏让位宽度内缩） |
+
+补充说明：
+
+- 动画截图由设备端连续 `screencap` 采样得到（宿主端并发截屏会丢输入事件），冷启动后第一次长按可稳定复现。
+- 主页菜单超过 6 行仍受上游 `GlassPopupColumn.POPUP_PROBE_COUNT = 8` 限制，在弹层内滚动，属已知上游行为。

diff --git a/docs/audit/miuix-os4-r13-audit.md b/docs/audit/miuix-os4-r13-audit.md
@@ -174,3 +174,20 @@ R12 记录"`GlassPopup` / `GlassTransformPopup` 在本机稳定崩在 RenderThre
 - 覆盖升级：本轮未发版；下次发版仍需跑 1.6.1 → 新版覆盖安装。
 - 上游可选优化：若官方把 `POPUP_PROBE_COUNT` 改成按内容全量探测，10 行主页菜单可以一屏展示，
   届时删除"6 行 + 滚动"的说明即可。
+
+---
+
+## 8. R14 后续修正（同基线）
+
+R13 的锚点浮层在本轮被用户指出四个问题，已在 R14 修正，细节见
+`docs/audit/miuix-os4-r14-audit.md`：
+
+1. **宽度过宽**：R13 为绕开高度探测给标题行写死 `width(320.dp)` / `width(280.dp)`，
+   把面板强行顶到官方 `MaxWidth 288dp`。R14 删除写死宽度，交回官方内容驱动（实测回到
+   `MinWidth 200dp`），面板明显收窄且文案完整。
+2. **首次长按无动画**：R13 用 `if (lastActionEntry != null)` 包裹浮层调用，第一次长按才组合，
+   `updateTransition` 初始值即 `true`。R14 改为官方要求的"常驻组合"，并用列表首项预热菜单内容，
+   冷启动后第一次长按即有完整展开动画。
+3. **横屏遮挡侧栏**：R14 把根部 `TopLayerHost` 按侧栏让位宽度（`overlayStart`）内缩，
+   利用官方"面板夹在宿主边界内"的摆放规则让浮层停在侧栏右侧。
+4. 设置页文案「禁用」→「停用」，并对调「主页标签字号」/「合成自适应图标」。
